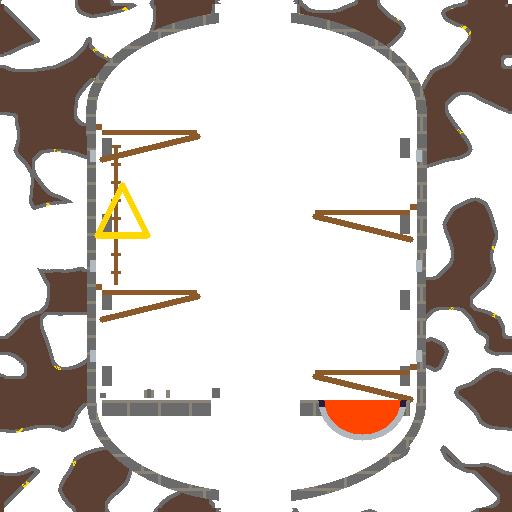
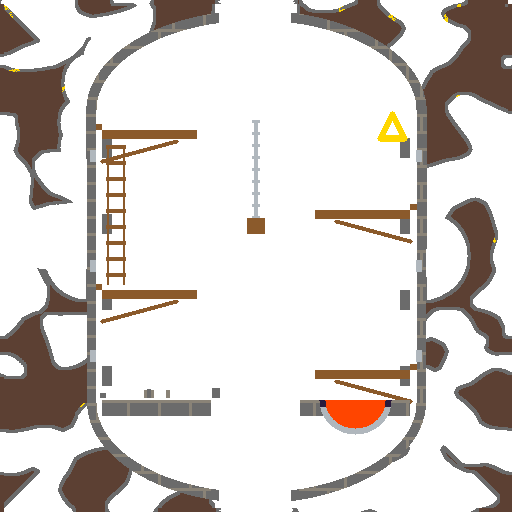
Hang something in the middle of each room, and place the marks by rule
Each room was hollow. A steel chain and box now hangs over the
cistern's water, a bucket down the well, and a rail line with a coal
cart runs the magazine's lane, which are three things the reference
does.

The marks were placed by eye and went out over a doorway twice. A walk
of the inner wall face picks the span now, rejecting anything within
sixty cells of a door, a jamb, a fitting or the liquid, and it raises
rather than drawing anyway. The cistern's mark was obsidian on black
air, which is no mark at all; it is gold.

The pockets the shell cut off from the cave are joined again where a
walk can reach them without cutting the shell.

Claude-Session: https://claude.ai/code/session_01Vn7ZCsztUMSekzQwyuj3u3

diff --git a/tools/seed_tiles.py b/tools/seed_tiles.py
@@ -1055,7 +1055,98 @@ def build_shell(grid, overlay, colors, material, rng, x0, x1, y0, y1, top_rx, to
                 if band_of(x, y) is None:
                     overlay[(x, y)] = colors["Rock"]
 
-    return lambda x, y: in_shell_shape(x, y, x0, x1, y0, y1, top_rx, top_ry, bot_rx, bot_ry)
+    inside = lambda x, y: in_shell_shape(x, y, x0, x1, y0, y1, top_rx, top_ry, bot_rx, bot_ry)
+    shell = lambda x, y: in_shell_shape(
+        x, y, x0 - SHELL_T, x1 + SHELL_T, y0 - SHELL_T, y1 + SHELL_T,
+        top_rx + SHELL_T, top_ry + SHELL_T, bot_rx + SHELL_T, bot_ry + SHELL_T,
+    )
+    forbidden = lambda x, y: shell(x, y) and not inside(x, y)
+    return inside, forbidden
+
+
+def carve_disc_avoiding(grid, cx, cy, r, forbidden):
+    """`carve_disc`, but a cell the shell owns -- its wall or its
+    packing -- is never opened. A walk built from this can cross
+    natural cave freely and still never breach the shell."""
+    for y in range(max(0, cy - r), min(TILE, cy + r + 1)):
+        for x in range(max(0, cx - r), min(TILE, cx + r + 1)):
+            if (x - cx) ** 2 + (y - cy) ** 2 <= r * r and not forbidden(x, y):
+                grid[y][x] = OPEN
+
+
+def carve_walk_avoiding(grid, x0, y0, x1, y1, r, rng, forbidden, wobble=0.7):
+    """`carve_walk`, but never opens a cell the shell owns."""
+    x, y = float(x0), float(y0)
+    radius = float(r)
+    for _ in range(4 * TILE):
+        dx, dy = x1 - x, y1 - y
+        distance = max(1e-6, (dx * dx + dy * dy) ** 0.5)
+        if distance <= 3.0:
+            break
+        dx, dy = dx / distance, dy / distance
+        swing = rng.uniform(-wobble, wobble)
+        x += dx - dy * swing
+        y += dy + dx * swing
+        radius = min(r + 16, max(24.0, radius + rng.uniform(-0.35, 0.35)))
+        carve_disc_avoiding(grid, round(x), round(y), int(radius), forbidden)
+    carve_disc_avoiding(grid, x1, y1, int(radius), forbidden)
+
+
+def reconnect_outside_shell(grid, rng, forbidden, attempts=6):
+    """`connect` used to join every sizeable pocket of a tile before a
+    shell was ever set into it. The shell can cut the cave into new
+    pockets, so this runs the same join again on the grid as it stands
+    now, cave and shell together -- but the walk it carves may never
+    open a cell the shell owns, so the shell stays one closed curve.
+
+    A walk that grazes the shell can still fail to bridge a pocket in
+    one pass, so this recomputes components and tries again: each pass
+    that opens anything changes what `nearest_of` finds next."""
+    for _ in range(attempts):
+        label, sizes = components(grid)
+        if not sizes:
+            return
+        main = max(range(len(sizes)), key=lambda i: sizes[i])
+        joined_any = False
+        for index, size in enumerate(sizes):
+            if index == main or size < POCKET:
+                continue
+            point = nearest_of(label, index, TILE // 2, TILE // 2)
+            if point is None:
+                continue
+            goal = nearest_of(label, main, point[0], point[1])
+            if goal is None:
+                continue
+            carve_walk_avoiding(grid, point[0], point[1], goal[0], goal[1],
+                                 rng.randint(TRUNK_R[0], TRUNK_R[1] + 12), rng, forbidden)
+            joined_any = True
+        if not joined_any:
+            return
+
+
+def find_clear_span(lo, hi, blocked, min_span, clearance=60):
+    """Walk an inner wall face from `lo` to `hi` and return the first
+    span at least `min_span` wide that is not within `clearance` cells
+    of anything in `blocked` -- a doorway, a jamb, a fitting, a liquid
+    level. Raise if there is none: drawing the glyph anyway, over
+    whatever is in its way, is exactly the bug this guards against."""
+    padded = sorted((a - clearance, b + clearance) for a, b in blocked)
+    merged = []
+    for a, b in padded:
+        if merged and a <= merged[-1][1]:
+            merged[-1][1] = max(merged[-1][1], b)
+        else:
+            merged.append([a, b])
+    cursor = lo
+    for a, b in merged:
+        if a > cursor and a - cursor >= min_span:
+            return cursor, min(a, hi)
+        cursor = max(cursor, b)
+        if cursor >= hi:
+            break
+    if hi - cursor >= min_span:
+        return cursor, hi
+    raise ValueError(f"no span >= {min_span} in [{lo},{hi}] clear of {blocked} by {clearance}")
 
 
 def cut_doorway(grid, overlay, colors, material, side, near, far, wall_at, span=72, frame=8, collar=None):
@@ -1204,20 +1295,55 @@ def place_plank(grid, overlay, colors, material, inside, x0, x1, y, land_y, thic
     fit_rect(grid, overlay, colors, material, inside, pcx - post_w // 2, pcx + post_w // 2, lo, hi)
 
 
-def place_ladder(grid, overlay, colors, material, inside, x, y0, y1, width=5, rung=18):
-    fit_rect(grid, overlay, colors, material, inside, x - width // 2, x + width // 2, y0, y1)
+def place_ladder(grid, overlay, colors, material, inside, x, y0, y1, gap=16, rung_len=20, stile_w=3):
+    """Two stiles `gap` apart, and a rung `rung_len` long, 4 cells
+    thick, crossing between them every `gap` down: a ladder, not a
+    dotted line up the middle of a bare wall."""
+    for sx in (x - gap // 2, x + gap // 2):
+        fit_rect(grid, overlay, colors, material, inside, sx - stile_w // 2, sx + stile_w // 2, y0, y1)
     yy = y0
     while yy < y1:
-        fit_rect(grid, overlay, colors, material, inside, x - width, x + width, int(yy), int(yy) + 3)
-        yy += rung
+        fit_rect(grid, overlay, colors, material, inside, x - rung_len // 2, x + rung_len // 2, int(yy), int(yy) + 4)
+        yy += gap
+
+
+def place_chain(grid, overlay, colors, material, inside, cx, y0, y1, width=5, link=12):
+    """A chain: a column `width` wide with a link pattern in it, not a
+    plain bar -- a wider tick every `link` cells down its length."""
+    fit_rect(grid, overlay, colors, material, inside, cx - width // 2, cx + width // 2, y0, y1)
+    yy = y0
+    while yy < y1:
+        fit_rect(grid, overlay, colors, material, inside, cx - width // 2 - 2, cx + width // 2 + 2, int(yy), int(yy) + 3)
+        yy += link
+
+
+def place_rail_cart(grid, overlay, colors, inside, x0, x1, floor_y, cart_x):
+    """Two Steel rails on Wood sleepers the length of the lane, and a
+    cart resting on them: a Wood box on Steel wheels, heaped with
+    Coal. Furniture on the floor, well short of the beam above it."""
+    xx = x0
+    while xx < x1:
+        fit_rect(grid, overlay, colors, "Wood", inside, int(xx), int(xx) + 6, floor_y - 8, floor_y - 4)
+        xx += 22
+    fit_rect(grid, overlay, colors, "Steel", inside, x0, x1, floor_y - 8, floor_y - 6)
+    fit_rect(grid, overlay, colors, "Steel", inside, x0, x1, floor_y - 5, floor_y - 3)
+
+    cw = 34
+    fit_rect(grid, overlay, colors, "Steel", inside, cart_x - cw // 2 + 4, cart_x - cw // 2 + 10, floor_y - 6, floor_y)
+    fit_rect(grid, overlay, colors, "Steel", inside, cart_x + cw // 2 - 10, cart_x + cw // 2 - 4, floor_y - 6, floor_y)
+    fit_rect(grid, overlay, colors, "Wood", inside, cart_x - cw // 2, cart_x + cw // 2, floor_y - 22, floor_y - 6)
+    for x in range(cart_x - cw // 2 + 3, cart_x + cw // 2 - 3):
+        h = 10 - abs(x - cart_x) * 10 // (cw // 2)
+        fit_rect(grid, overlay, colors, "Coal", inside, x, x + 1, floor_y - 22 - max(0, h), floor_y - 22)
 
 
 def place_bracket_ledge(grid, overlay, colors, material, inside, wall_x, out, y, thickness, from_west, into=10):
-    """A ledge `thickness` thick, running `out` cells from the wall at
-    `wall_x`, held on two brackets driven `into` cells back into the
-    wall, and a strut under it, from low on the wall out to the far
-    end -- never across the platform's own face, or it reads as a
-    crossed stick instead of something to stand on."""
+    """A ledge `thickness` thick (8 to 10: clearly the heaviest thing
+    here), running `out` cells from the wall at `wall_x`, held on two
+    brackets driven `into` cells back into the wall, and a strut half
+    as thick underneath, from low on the wall out to short of the far
+    end. A slab and a strut the same weight, meeting at a point, draw
+    a wedge, not a platform -- so neither happens here."""
     if from_west:
         x0, x1 = wall_x, wall_x + out
     else:
@@ -1229,8 +1355,9 @@ def place_bracket_ledge(grid, overlay, colors, material, inside, wall_x, out, y,
         else:
             bx0, bx1 = wall_x, wall_x + into
         fit_rect(grid, overlay, colors, material, inside, int(bx0), int(bx1), y - 6, y)
-    far_x = x1 if from_west else x0
-    place_brace(grid, overlay, colors, material, inside, wall_x, y + thickness + 24, far_x, y + thickness + 1)
+    strut_w = max(4, thickness // 2)
+    far_x = wall_x + out * 0.78 if from_west else wall_x - out * 0.78
+    place_brace(grid, overlay, colors, material, inside, wall_x, y + thickness + 22, far_x, y + thickness + 2, width=strut_w)
 
 
 def in_mound(x, y, cx, floor_y, half_w, height):
@@ -1361,7 +1488,7 @@ def room_cistern(grid, rng, colors):
     top_rx = bot_rx = 150
     top_ry = bot_ry = 80
     overlay = {}
-    inside = build_shell(grid, overlay, colors, "Steel", rng, x0, x1, y0, y1, top_rx, top_ry, bot_rx, bot_ry)
+    inside, shell_mask = build_shell(grid, overlay, colors, "Steel", rng, x0, x1, y0, y1, top_rx, top_ry, bot_rx, bot_ry)
 
     for side in "NESW":
         near, far, wall_at = {
@@ -1399,22 +1526,40 @@ def room_cistern(grid, rng, colors):
     # and biting into the packing where it dips low
     carve_gold_seam(grid, overlay, colors, x0 - 60, x1 + 60, y0 - SHELL_T - 30, 22, rng)
 
-    # the maker's mark, on a clear span of wall below the planks and
-    # well clear of the west doorway's own jamb
-    place_glyph(overlay, colors, "Obsidian", x0 + WALL_T + 20, 330, "down")
+    # the rope-swing: a Steel chain from the crown of the dome down to
+    # just over the water, a Steel box on its end -- the single most
+    # recognisable thing in the reference. It falls through the same
+    # gap between the planks the north doorway already drops a player
+    # toward, so it stands in the open shaft, not across a foothold.
+    crown_x = (x0 + x1) // 2 - 11  # off the tile's exact centre, still in the gap between the planks
+    crown_y = int(y0 + top_ry * (1 - math.sqrt(max(0.0, 1 - ((crown_x - min(max(crown_x, x0 + top_rx), x1 - top_rx)) / top_rx) ** 2)))) + 8
+    place_chain(grid, overlay, colors, "Steel", inside, crown_x, crown_y, level - 20)
+    fit_rect(grid, overlay, colors, "Steel", inside, crown_x - 12, crown_x + 12, level - 20, level - 2)
+
+    # the maker's mark: found by walking the dome for a span clear of
+    # the north doorway, never placed by eye
+    dome_lo, dome_hi = find_clear_span(x0, x1, [(211, 299)], min_span=40)
+    gcx = (dome_lo + dome_hi) // 2
+    gsize = max(12, min(22, (dome_hi - dome_lo) // 2 - 6))
+    clamp_x = min(max(gcx, x0 + top_rx), x1 - top_rx)
+    gnx = (gcx - clamp_x) / top_rx
+    gcy = int(y0 + top_ry * (1 - math.sqrt(max(0.0, 1 - gnx * gnx)))) + gsize + 4
+    place_glyph(overlay, colors, "Gold", gcx, gcy, "down", size=gsize)
 
     scatter_rubble(grid, overlay, colors, inside, level - 2, x0 + 20, 150, rng, count=4)
+
+    reconnect_outside_shell(grid, rng, shell_mask)
 
     return overlay
 
 
 def room_magazine(grid, rng, colors):
     """coalmine_0101_1: the Magazine. See the module docstring."""
-    x0, x1, y0, y1 = 76, 436, 125, 410
-    top_rx, top_ry = (x1 - x0) // 2, 55
-    bot_rx = bot_ry = 24
+    x0, x1, y0, y1 = 76, 436, 115, 420
+    top_rx, top_ry = (x1 - x0) // 2, 45
+    bot_rx = bot_ry = 18
     overlay = {}
-    inside = build_shell(grid, overlay, colors, "Rock", rng, x0, x1, y0, y1, top_rx, top_ry, bot_rx, bot_ry)
+    inside, shell_mask = build_shell(grid, overlay, colors, "Rock", rng, x0, x1, y0, y1, top_rx, top_ry, bot_rx, bot_ry)
 
     # coursed masonry over the whole shell -- the largest single change
     # a wall this size can carry
@@ -1432,7 +1577,7 @@ def room_magazine(grid, rng, colors):
     # the timber frame, entirely inside the belt the doorway also lives
     # in: posts floor to lintel, a brace in the top corner of every bay
     FX0, FX1 = x0 + 24, x1 - 24
-    FLOOR = 382
+    FLOOR = 384
     LY0, LY1 = 184, 200   # the lintel
 
     # the lane comes first: a clear run the whole length of the hall,
@@ -1484,9 +1629,17 @@ def room_magazine(grid, rng, colors):
         for cy0 in (FLOOR - 56, FLOOR - 28):
             fit_rect(grid, overlay, colors, "Tnt", inside, cx0, cx0 + 24, cy0, cy0 + 24)
 
-    # the maker's mark, on a clear span of the west wall: well below
-    # the doorway and its jamb, well above the oil trough
-    place_glyph(overlay, colors, "Steel", x0 - WALL_T + 18, 340, "circle", size=18)
+    # a rail line the length of the lane, and a coal cart on it,
+    # clear of the duct and every bay's own furniture
+    place_rail_cart(grid, overlay, colors, inside, FX0, FX1, FLOOR, 318)
+
+    # the maker's mark: found by walking the east wall for a span
+    # clear of the doorway, never placed by eye. It sits at the top of
+    # that span, so it never crosses down into the floor.
+    glo, ghi = find_clear_span(y0 + top_ry, y1 - bot_ry, [(211, 299)], min_span=40)
+    gsize = max(10, min(16, (ghi - glo) // 2 - 6))
+    gcy = glo + gsize + 4
+    place_glyph(overlay, colors, "Steel", x1 - WALL_T - gsize - 6, gcy, "circle", size=gsize)
 
     scatter_rubble(grid, overlay, colors, inside, FLOOR - 2, bay_mid[2] + 20, bay4 - 40, rng, count=8)
 
@@ -1495,6 +1648,8 @@ def room_magazine(grid, rng, colors):
     # crawl below the floor are never sealed off from the hall between
     # them, whatever else stands in it
     fit_open(grid, overlay, inside, 284, 300, 0, TILE)
+
+    reconnect_outside_shell(grid, rng, shell_mask)
 
     return overlay
 
@@ -1505,7 +1660,7 @@ def room_well(grid, rng, colors):
     top_rx = bot_rx = (x1 - x0) // 2
     top_ry = bot_ry = 90
     overlay = {}
-    inside = build_shell(grid, overlay, colors, "Rock", rng, x0, x1, y0, y1, top_rx, top_ry, bot_rx, bot_ry)
+    inside, shell_mask = build_shell(grid, overlay, colors, "Rock", rng, x0, x1, y0, y1, top_rx, top_ry, bot_rx, bot_ry)
 
     margin = int(SHELL_T + max(top_ry, bot_ry) + 10)
     course_masonry(overlay, colors, "Rock", "Gravel", x0 - margin, x1 + margin, y0 - margin, y1 + margin)
@@ -1527,8 +1682,13 @@ def room_well(grid, rng, colors):
     ledges = ((130, True), (210, False), (290, True), (370, False))
     for y, from_west in ledges:
         wall_x = x0 + WALL_T if from_west else x1 - WALL_T
-        place_bracket_ledge(grid, overlay, colors, "Wood", inside, wall_x, 95, y, 5, from_west)
+        place_bracket_ledge(grid, overlay, colors, "Wood", inside, wall_x, 95, y, 9, from_west)
     place_ladder(grid, overlay, colors, "Wood", inside, x0 + WALL_T + 14, 145, 285)
+
+    # the well's own chain: Steel down the middle of the shaft, a Wood
+    # bucket on the end, hanging level with the second ledge
+    place_chain(grid, overlay, colors, "Steel", inside, (x0 + x1) // 2, y0 + top_ry + 10, 218)
+    fit_rect(grid, overlay, colors, "Wood", inside, (x0 + x1) // 2 - 9, (x0 + x1) // 2 + 9, 218, 234)
 
     # the shaft needs a floor, the full width of it: masonry, with the
     # south doorway cut through its clear (west) side, well clear of
@@ -1540,11 +1700,22 @@ def room_well(grid, rng, colors):
     course_masonry(overlay, colors, "Rock", "Gravel", x0, x1, FLOOR, FLOOR + 16)
     fit_open(grid, overlay, inside, MC0, MC1, FLOOR, FLOOR + 16)
 
-    carve_bowl_pit(grid, overlay, colors, inside, 362, FLOOR, 38, 34, "Lava")
+    # the bowl, with the floor running up to its rim on both sides --
+    # clear margin to the doorway gap on the west, clear margin to the
+    # wall on the east, so it never reads as stuck to either
+    carve_bowl_pit(grid, overlay, colors, inside, 355, FLOOR, 30, 28, "Lava")
 
-    place_glyph(overlay, colors, "Gold", x0 + WALL_T + 20, 210, "up")
+    # the maker's mark: found by walking the east wall for a span
+    # clear of both ledges, never placed by eye
+    glo, ghi = find_clear_span(y0 + top_ry, y1 - bot_ry,
+                                [(204, 243), (364, 403)], min_span=28)
+    gsize = max(8, min(16, (ghi - glo) // 2 - 5))
+    gcy = glo + gsize + 4
+    place_glyph(overlay, colors, "Gold", x1 - WALL_T - gsize - 6, gcy, "up", size=gsize)
 
     scatter_rubble(grid, overlay, colors, inside, FLOOR - 2, x0 + WALL_T, x0 + WALL_T + 120, rng, count=6)
+
+    reconnect_outside_shell(grid, rng, shell_mask)
 
     return overlay
 
